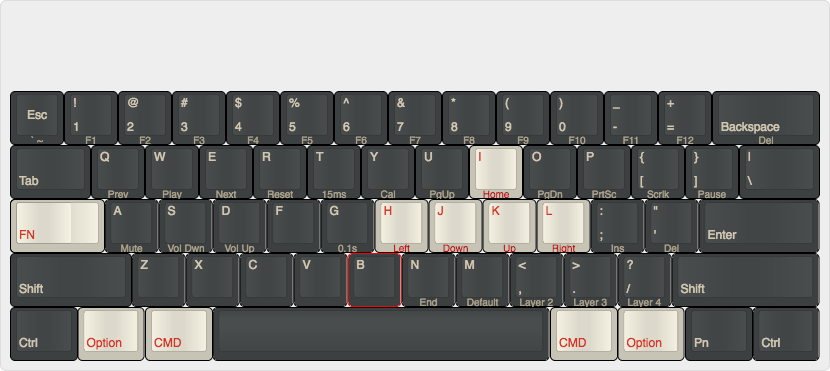
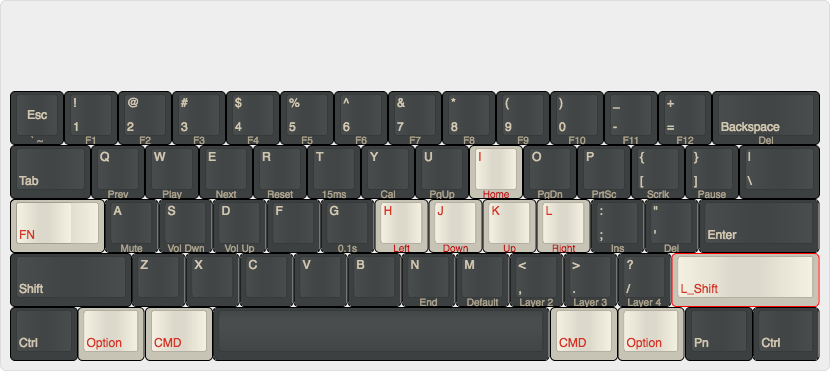
pok3r layout

Changed region(s): [[0.7831, 0.6819, 0.994, 0.8302], [0.4518, 0.8005, 0.4819, 0.8302], [0.4518, 0.6819, 0.4819, 0.7116]]

diff --git a/pok3r-layouts/README.md b/pok3r-layouts/README.md
@@ -39,6 +39,8 @@ Windows Layout on [keyboard-layout-editor.com](http://www.keyboard-layout-editor
   * L_Option: `L_WIN` then: `L_Alt` then: `PN`
   * R_CMD: `R_Alt` then: `R_FN` (Win) then: `PN`
   * R_Option: `R_FN` (Win) then: `R_Alt` then: `PN`
+* Right Shift is Left Shift for ~
+  * `R_Shift` then: `L_Shift` then: `PN`
 * `FN + R_Ctrl` to exit programming
 
 Resulting programming:
